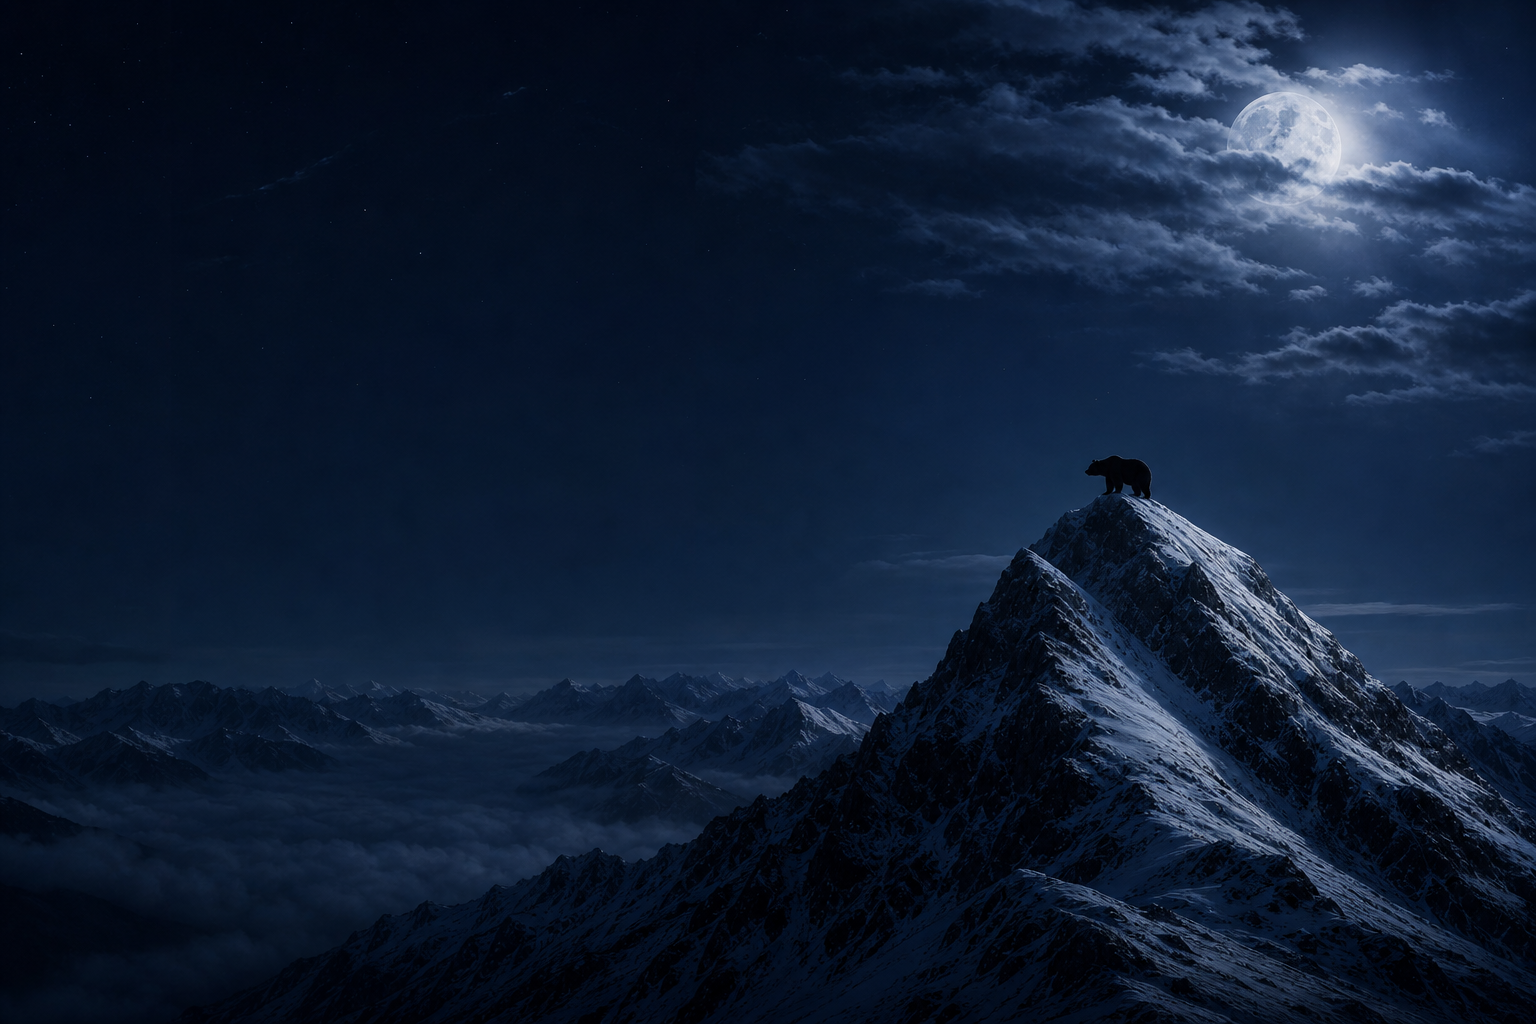
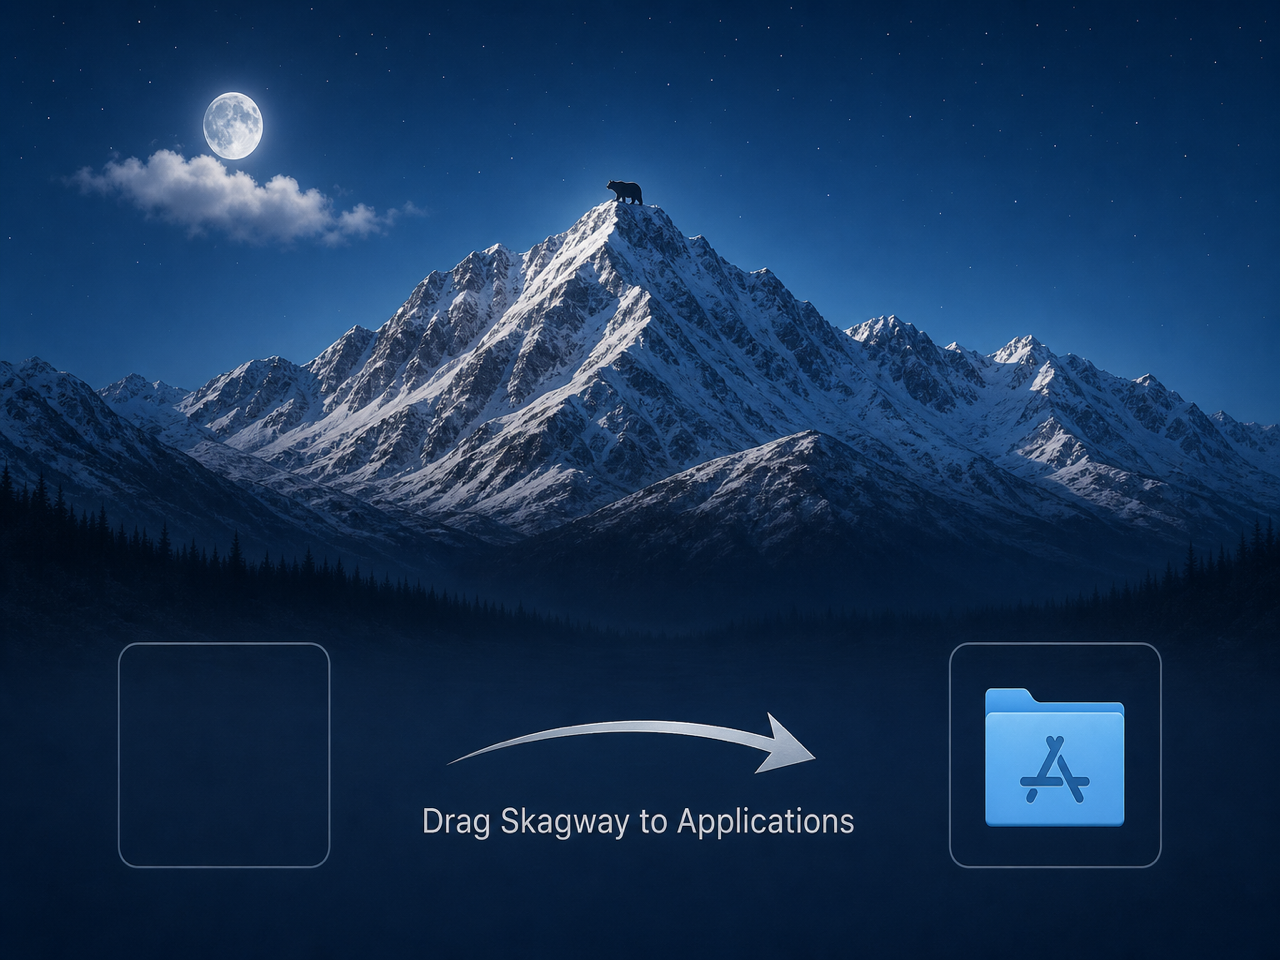
Resize DMG background to the Finder window and add drag instructions.
Replace the too-dark oversized art with a 1280×960 window-matched scene that includes an arrow and “Drag Skagway to Applications.”

diff --git a/CHANGELOG.md b/CHANGELOG.md
@@ -32,7 +32,7 @@ See `AGENTS.md` and `.cursor/rules/build-deploy.mdc` for the full agent and rele
 ## Unreleased
 
 - **Public DMG packaging pipeline** — `scripts/package_dmg.sh` archives with Developer ID + hardened runtime, builds a drag-to-Applications DMG, notarizes (`SkagwayNotary`), and staples to `dist/Skagway.dmg`.
-- **Styled DMG installer** — moonlit mountain + bear background (`packaging/dmg-background.png`) via `create-dmg` with app + Applications drop layout.
+- **Styled DMG installer** — moonlit mountain + bear background sized to the Finder window (`packaging/dmg-background.png`) with baked-in “Drag Skagway to Applications” cue via `create-dmg`.
 - **About / version polish for distribution** — About shows marketing version, build, “Free forever,” Mach II Labs; Info.plist versions now track `MARKETING_VERSION` / `CURRENT_PROJECT_VERSION`.
 
 ## 0.62.0 (build 764) - 2026-07-14